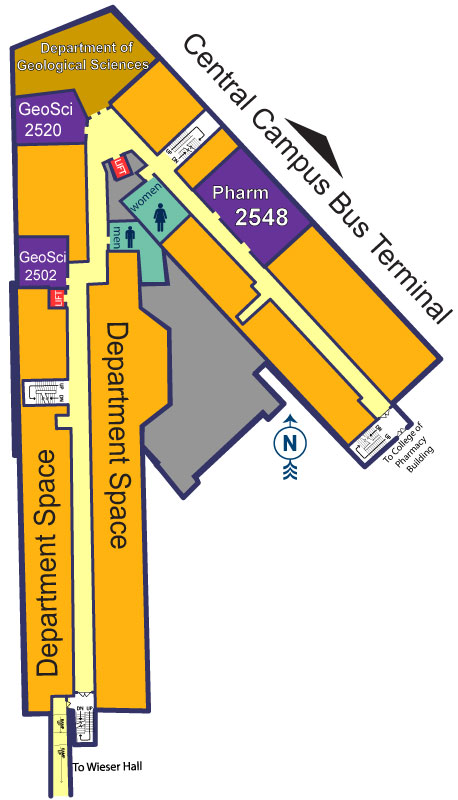
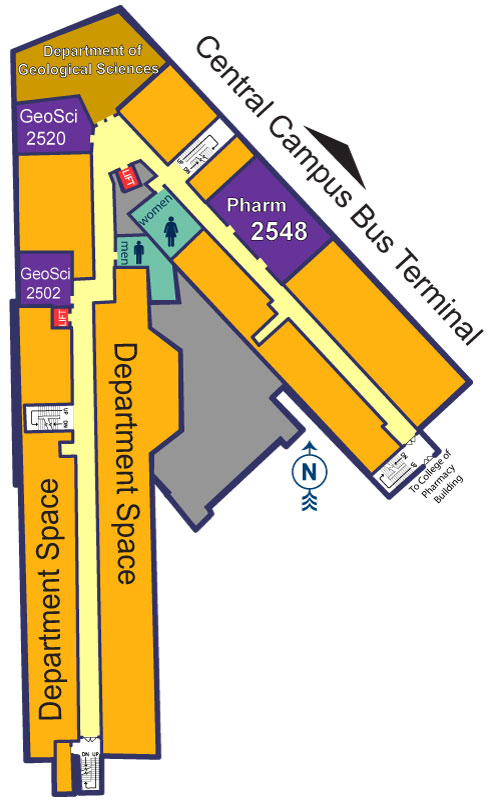
UPDATE: Maps for ccl

Changed region(s): [[0.0, 0.0, 1.0, 1.0]]

diff --git a/public/maps/ccl2.html b/public/maps/ccl2.html
@@ -11,7 +11,16 @@
    a:link{text-decoration:none;}
    a:hover{text-decoration:underline;}
    img{z-index:-1; margin:1% 1% 1% 5%; height:865px;}
-   .text{font-family:Arial, Helvetica, sans-serif; font-size:x-large; font-weight:bold; position:absolute; z-index:0; border:0;}
+   .text{
+	font-family: Arial, Helvetica, sans-serif;
+	font-size: x-large;
+	font-weight: bold;
+	position: absolute;
+	z-index: 0;
+	border: 0;
+	top: 55px;
+	left: 33px;
+}
 </style>
 
 </head>
@@ -28,10 +37,9 @@
 
 <img src="ccl2.jpg" alt="CC Little floor 2"  border="0" usemap="#ccl2" />
 <map name="ccl2" id="ccl2">
-  <area shape="rect" coords="14,252,81,322" href="../classrooms/CCL2502" tabindex="1" alt="Link to data room 2502" title="Link to data room 2502" />
-  <area shape="rect" coords="11,94,101,167" href="../classrooms/CCL2520" tabindex="2" alt="Link to data room 2520" title="Link to data room 2520" />
-  <area shape="poly" coords="268,152,204,210,288,301,357,242" href="../classrooms/CCL2548" target="_self" tabindex="3" alt="Link to data room 2548" title="Link to data room 2548" />
-  <area shape="rect" coords="54,816,187,869" href="weis2.html" tabindex="7" alt="Link to Weiser through the bridge" title="Link to Weiser through the bridge" />
+  <area shape="rect" coords="6,262,90,347" href="../classrooms/CCL2502" tabindex="1" alt="Link to data room 2502" title="Link to data room 2502" />
+  <area shape="rect" coords="6,92,107,190" href="../classrooms/CCL2520" tabindex="2" alt="Link to data room 2520" title="Link to data room 2520" />
+  <area shape="poly" coords="273,140,195,216,310,336,386,258" href="../classrooms/CCL2548" target="_self" tabindex="3" alt="Link to data room 2548" title="Link to data room 2548" />
 </map>
 
 </body>
